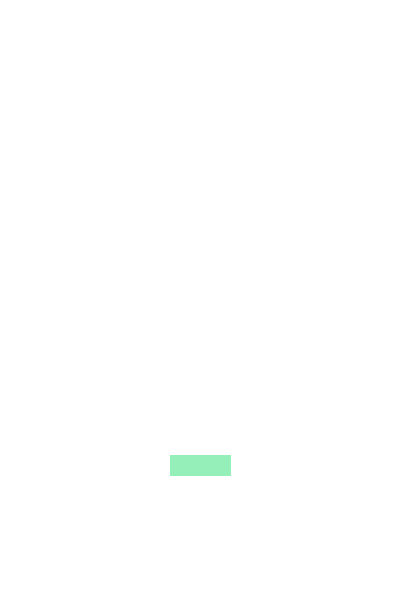
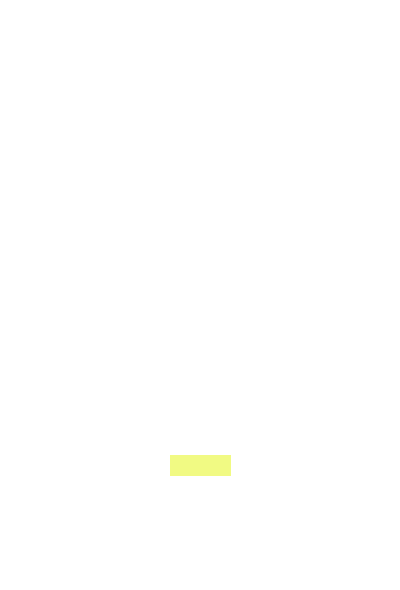
changed colour for focus ireland

Changed region(s): [[0.42, 0.7627, 0.6, 0.8237]]

diff --git a/main.py b/main.py
@@ -12,6 +12,7 @@ font_path = "./assets/fonts/GaretHeavy.ttf"
 image_path = "./assets/images/donation_thermometer.png"
 donation_url = "https://www.idonate.ie/fundraiser/MediaProductionSociety12"
 heading_text = f"DONATION\nPROGRESS"
+mercury_color = (241, 250, 131)
 
 
 def get_donation_count():
@@ -73,7 +74,7 @@ def create_donation_thermometer(goal, current_donation, image_width=400, image_h
 
     if mercury_height > 0:
         draw.rectangle([(mercury_left, mercury_top),
-                       (mercury_right, mercury_bottom)], fill=(149, 239, 185))
+                       (mercury_right, mercury_bottom)], fill=mercury_color)
 
     text = f"{current_donation} / {goal}"
     text_bbox = draw.textbbox((0, 0), text, font=font)
